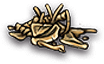
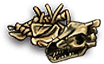
updates the dead demon hound dead image

Changed region(s): [[0.4327, 0.2812, 0.9808, 1.0]]

diff --git a/ReleaseNotes.md b/ReleaseNotes.md
@@ -3730,4 +3730,5 @@ Clears the mustering troops on legendary bandit contract completion
 
 **Fixes**
 Fixed. Armor layers parts will now repair when not attached to a base armor piece.
-Update Vala and Druid background icons
+Updated Vala and Druid background icons
+Updates the demon hound dead image
